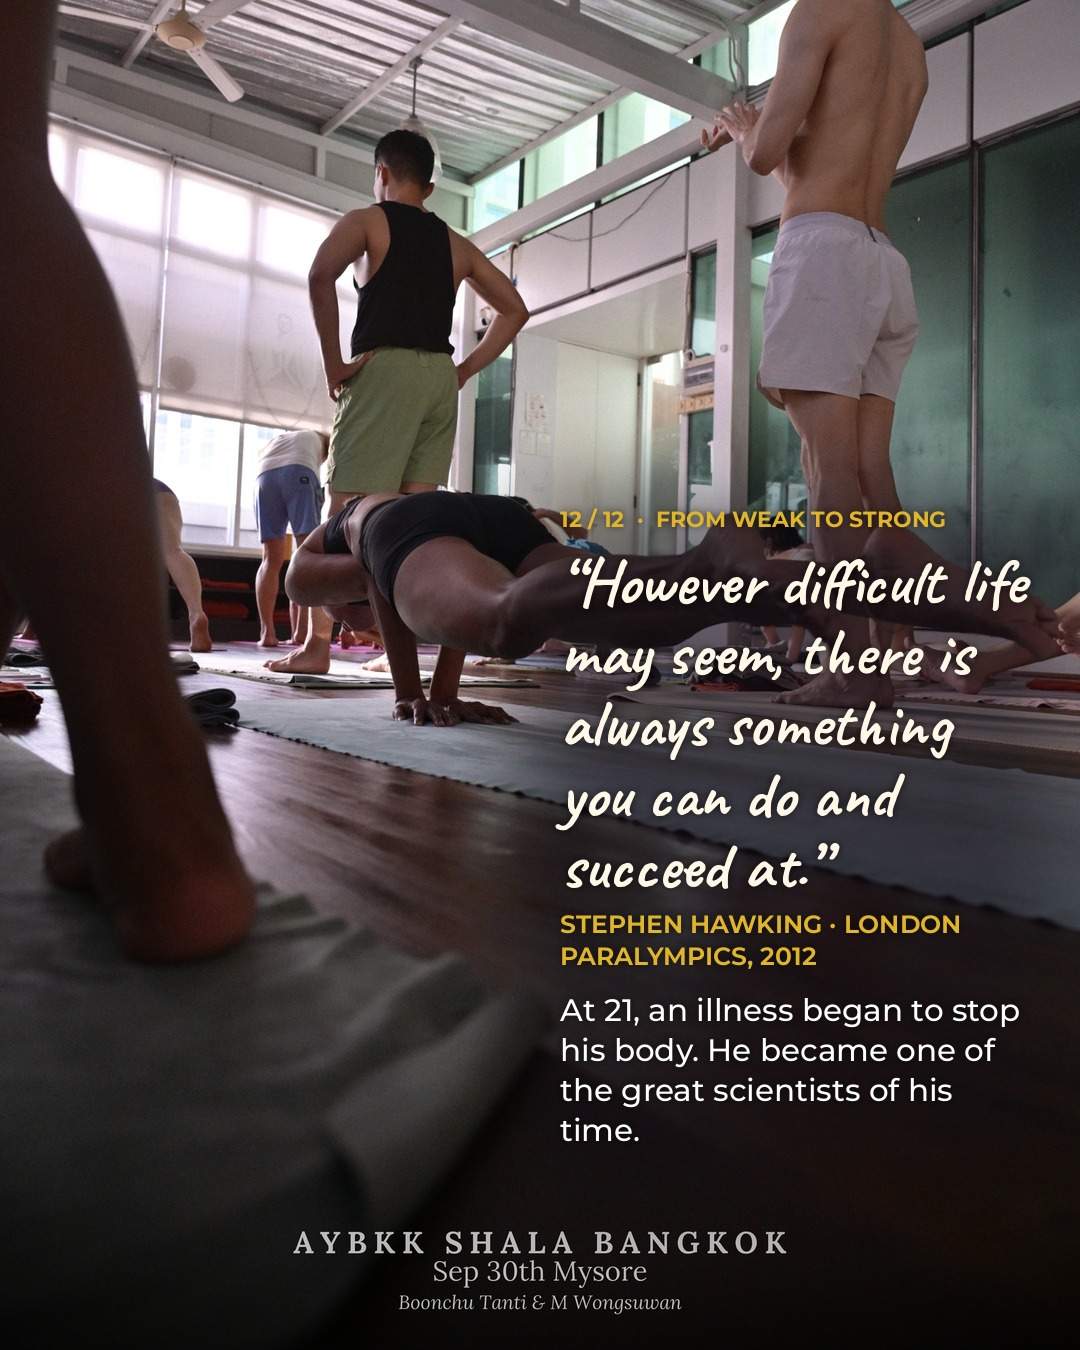
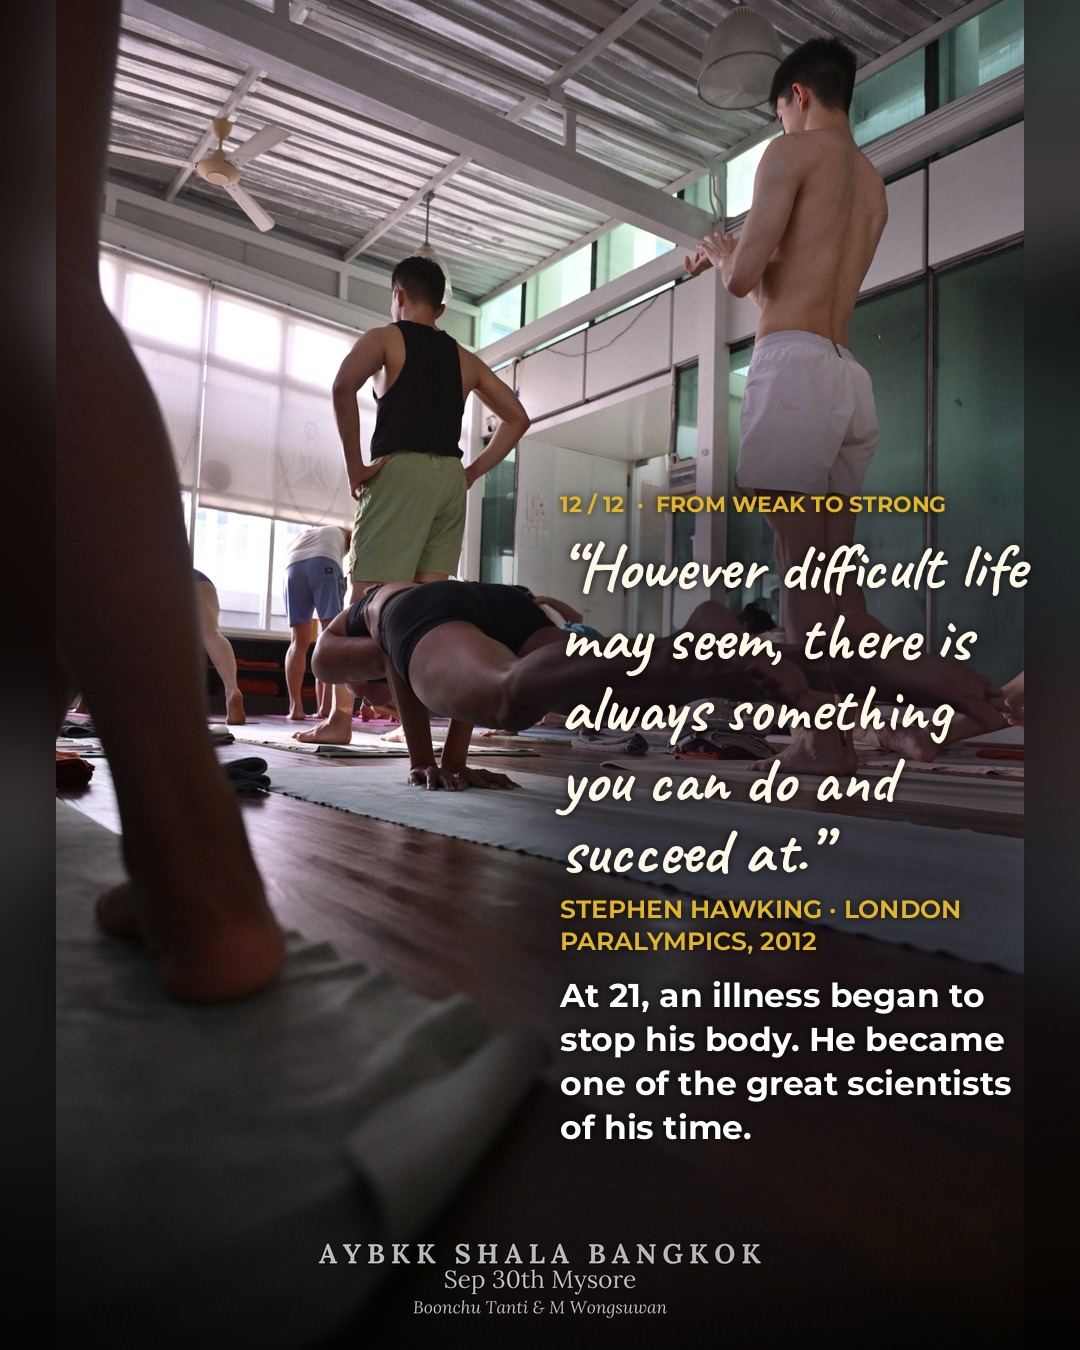
plato chat: 2026-09-30 carousels v3, head rule

diff --git a/bots/notebook/plato.md b/bots/notebook/plato.md
@@ -1,6 +1,8 @@
 # Plato notebook
 
 ## Standing orders from Boonchu
+- NEVER CUT A STUDENT'S HEAD (30 Sep): when cropping a photo, never cut any head (main student, teacher or people in the back). Cut the feet instead, or fit the whole photo and fill the sides with a blurred copy. Keep the watermark at the bottom. Check every crop by eye before sending.
+- CAROUSEL TEXT (30 Sep): the meaning line in white must be bold and easy to read (Montserrat bold 33 on 1080 wide). Text never on faces or the main asana, check each slide by eye.
 - 2026-09-28: VIDEO EDIT SPEC (for whoever edits; editing happens in the "Editing by Claude" session with HyperFrames, not in Plato's run). With every Reel, Plato writes an edit cue sheet:
   - Zoom cut: punch in close on his face for 1 to 2 seconds on each stress word.
   - Sound effect on each stress word at 40% volume, starting 0.4 s AFTER he finishes saying that word.
